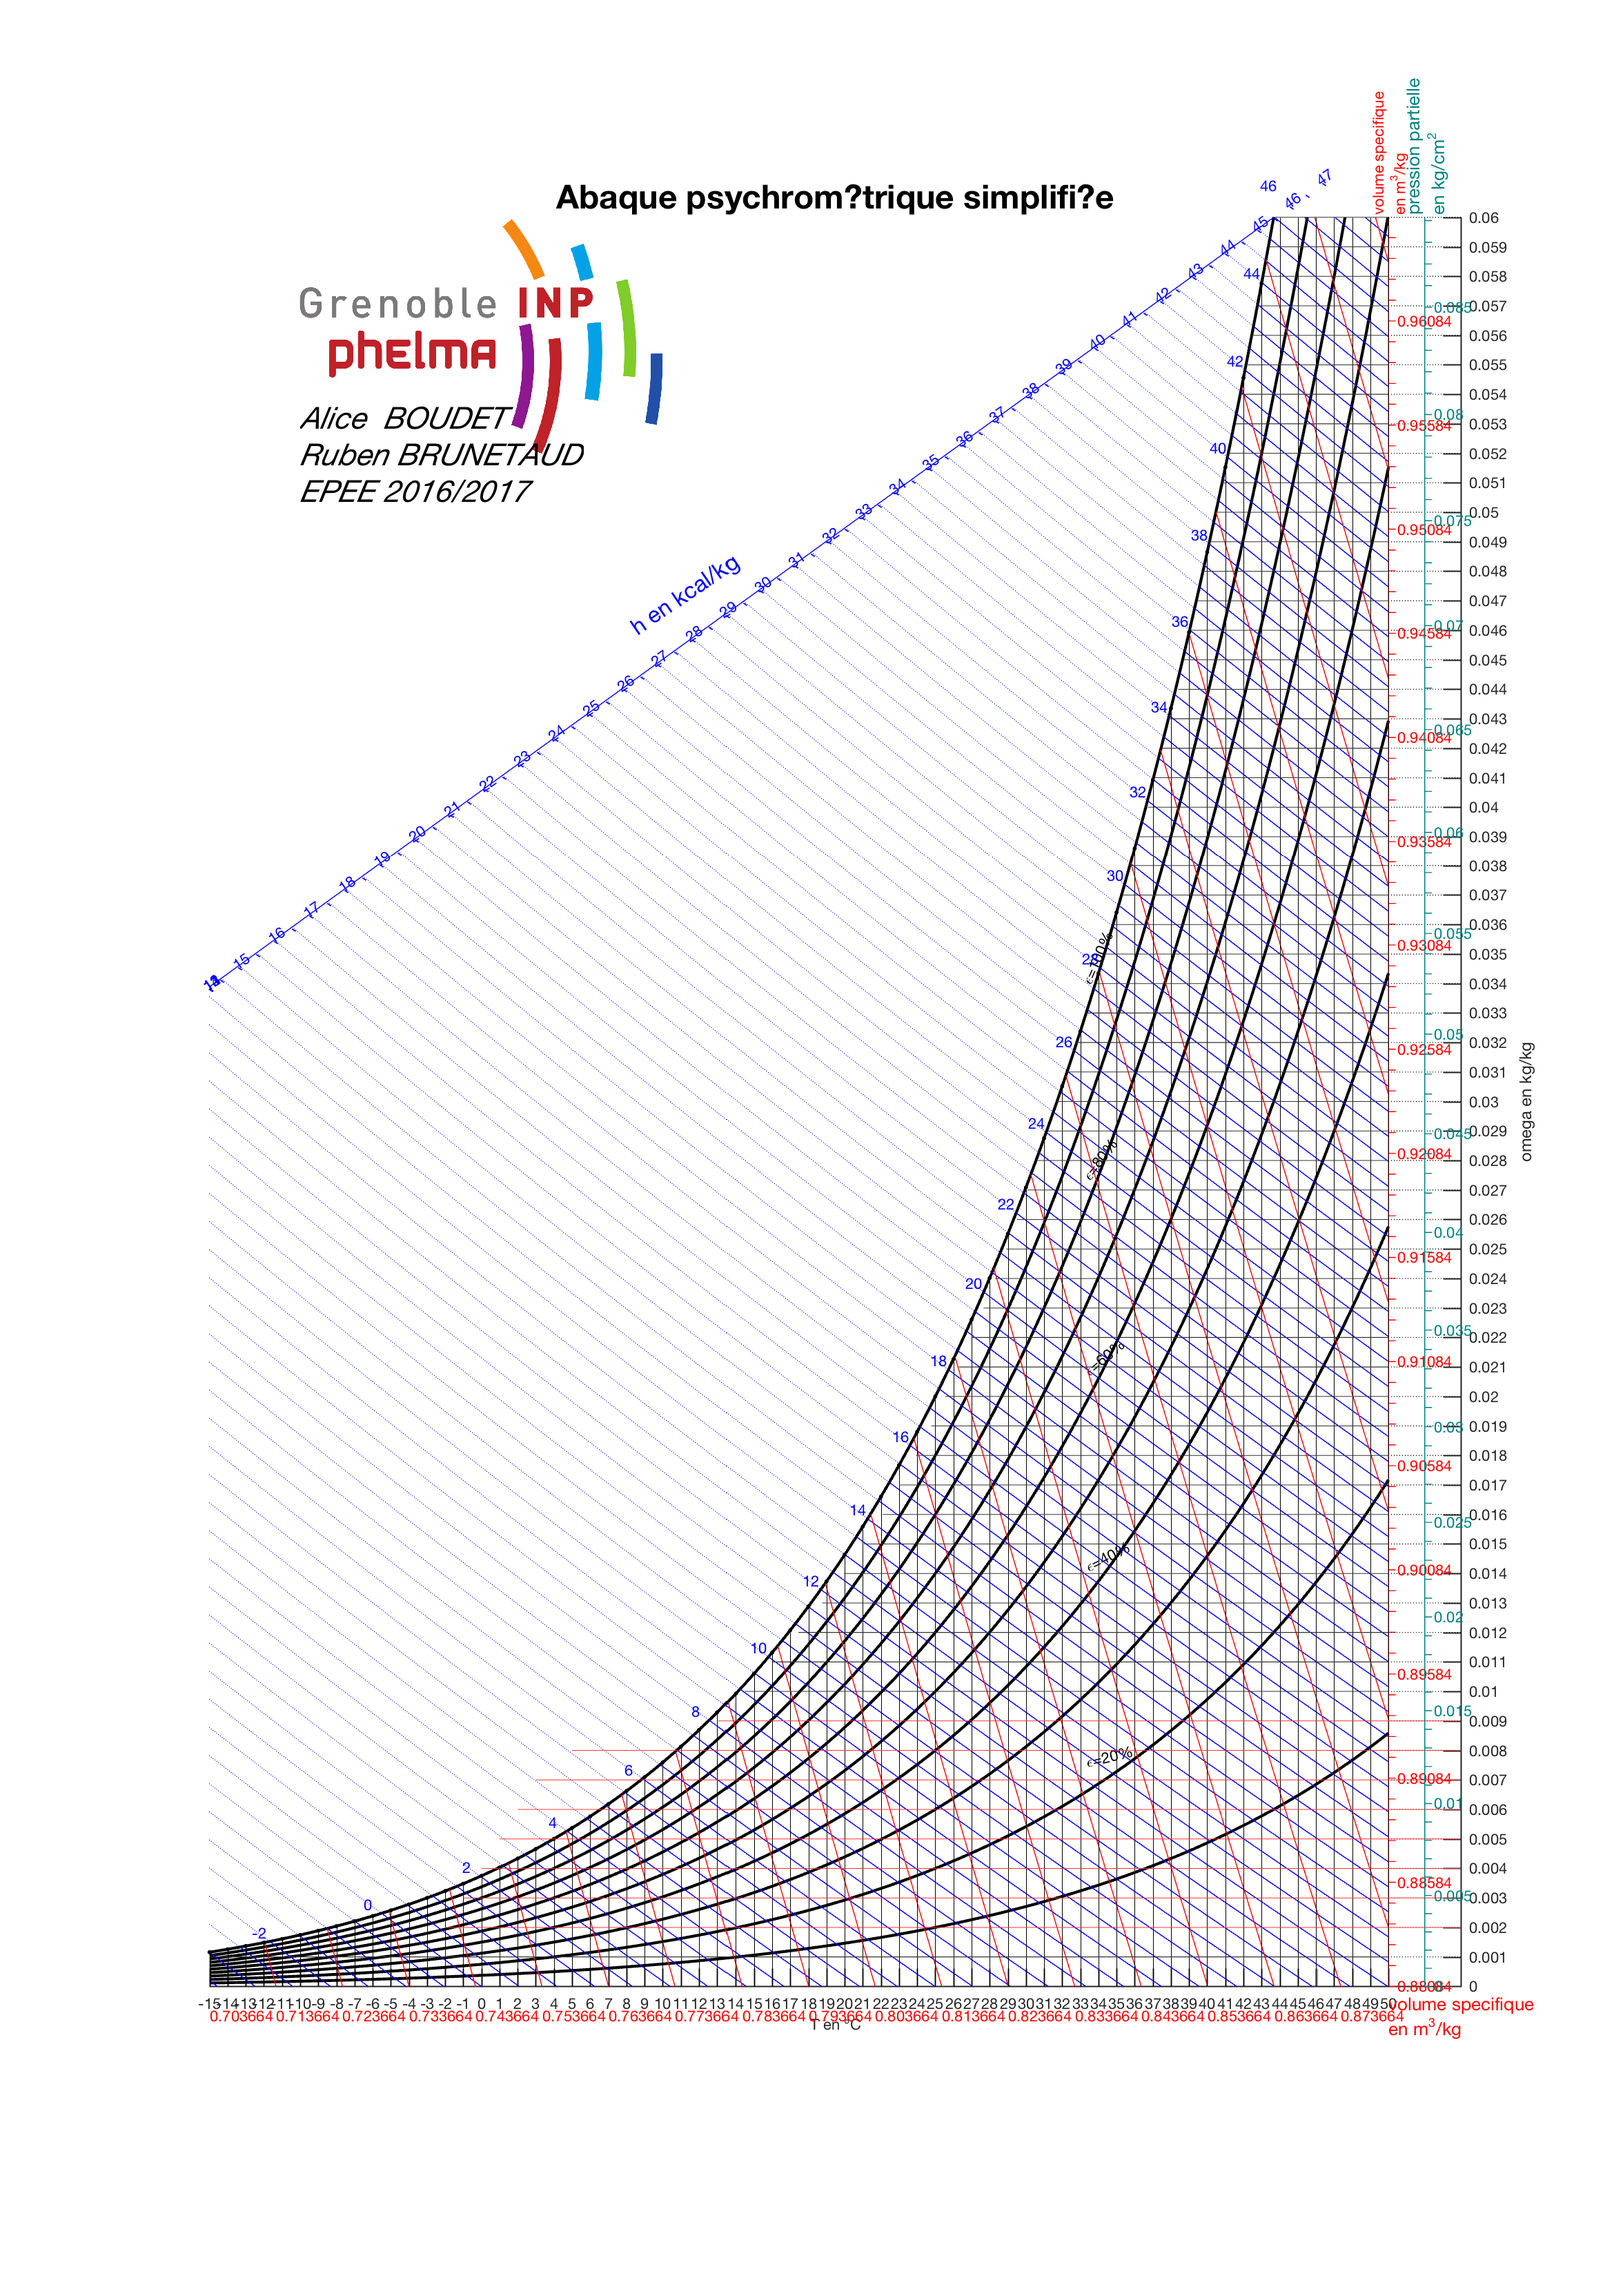
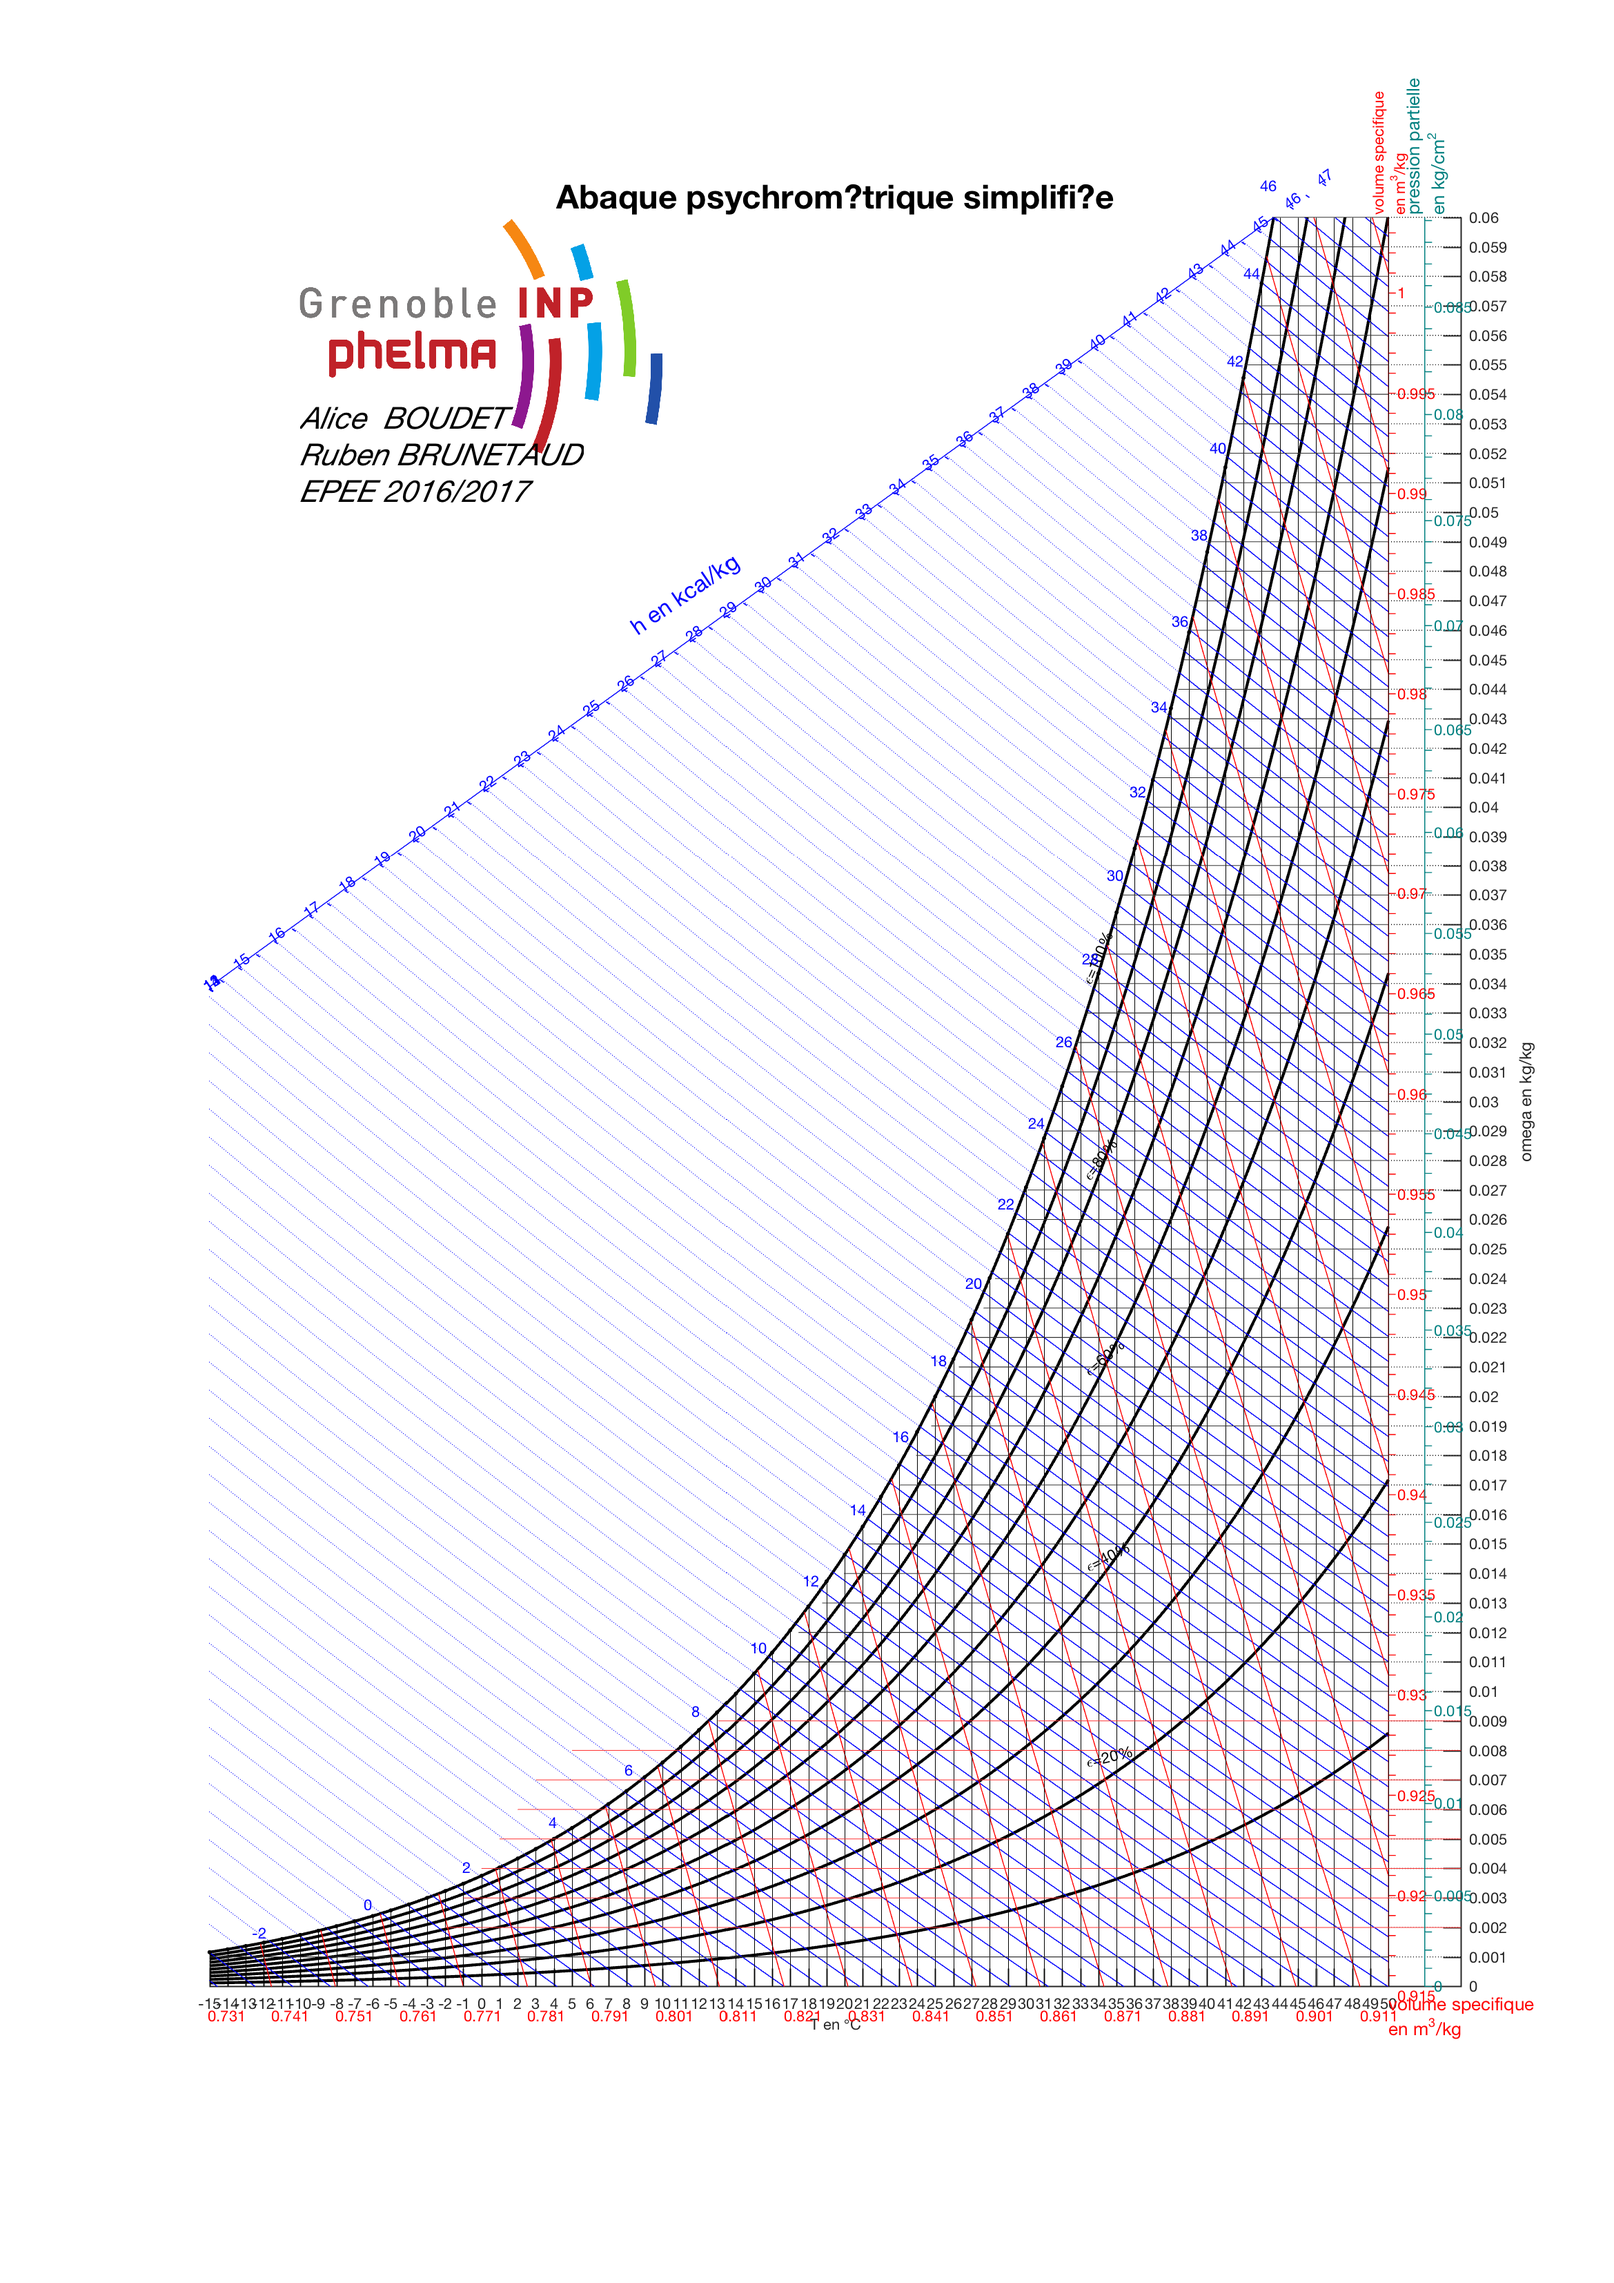
V2

diff --git a/main.m b/main.m
@@ -9,7 +9,7 @@ Ptot=101325; %Pa (Wikipedia)
 Cp_as = 1.005 % kJ/kg/K (the engineering toolbox)
 Cp_eau = 4.180   %kJ/kg/K (the engineering toolbox)
 Lv_eau = 2257.92 % kJ/kg (ThermExcel)
-R=8,3144621; %J/mol/K (Wikipedia)
+R=8.3144621; %J/mol/K (Wikipedia)
 Mas= 28.96546*10^-3 ; %kg/mol (Metgen)
 Mv= 18.01528*10^-3 ; %kg/mol (Wikipedia)
 
@@ -45,7 +45,7 @@ set(gcf,'units','centimeters','position',[1,1,width,height])
 
 pos = get(gcf, 'Position');
 
-title('\fontsize{13}Abaque psychrom?trique simplifi?e')
+title('\fontsize{13}Abaque psychrometrique simplifiee')
 
 xlabel('T en {\circ}C')
 ylabel('omega en kg/kg')
@@ -71,7 +71,7 @@ Pvs=pression_vapPa(T);
 courbe_sat=0.621945.*(Pvs./(Ptot-Pvs));
 
 for h=1:10
-    plot(T, 0.1*h*courbe_sat, '-k','LineWidth',lw,'MarkerSize',msz)
+    plot(T, 0.1*h*courbe_sat, '-k','LineWidth',lw)
 end 
 
 % Trac? des l?gendes au dessus d'une courbe sur deux
@@ -168,9 +168,15 @@ plot(T, Ech_h, '-b')
 
 %% Trac? des isovolumes specifiques
 
+%Calcul precis
 Vs_ord_min= ((Mv/Mas)) * (R*(Tmax+273.15)/(Ptot*Mv));  
 Vs_ord_max=((Mv/Mas)+omega_maxaffich) * (R*(Tmax+273.15)/(Ptot*Mv));
 Vs_abs_min= ((Mv/Mas)) * (R*(Tmin+273.15)/(Ptot*Mv));
+
+%On les passe en valeurs avec 2 chiffres significatifs 
+Vs_ord_min=fix(1000*Vs_ord_min)/1000;
+Vs_ord_max=fix(1000*Vs_ord_max)/1000;
+Vs_abs_min=fix(1000*Vs_abs_min)/1000;
 
 for vs=Vs_abs_min:0.01:Vs_ord_max
     omega_vs=(vs.*Ptot.* Mv)./(R.*(T+273.15)) - (Mv/Mas); % source = Metgen
@@ -311,4 +317,4 @@ text(Tmin+5,0.052,str, 'Fontsize', 2*fsz, 'Interpreter', 'Tex')
 %             set(gcf,'PaperPosition', myfiguresize);
 %             
 %         print('Diagramme','-dpng','-r200'); % sauvegarde l'image au format png
-% 
+
